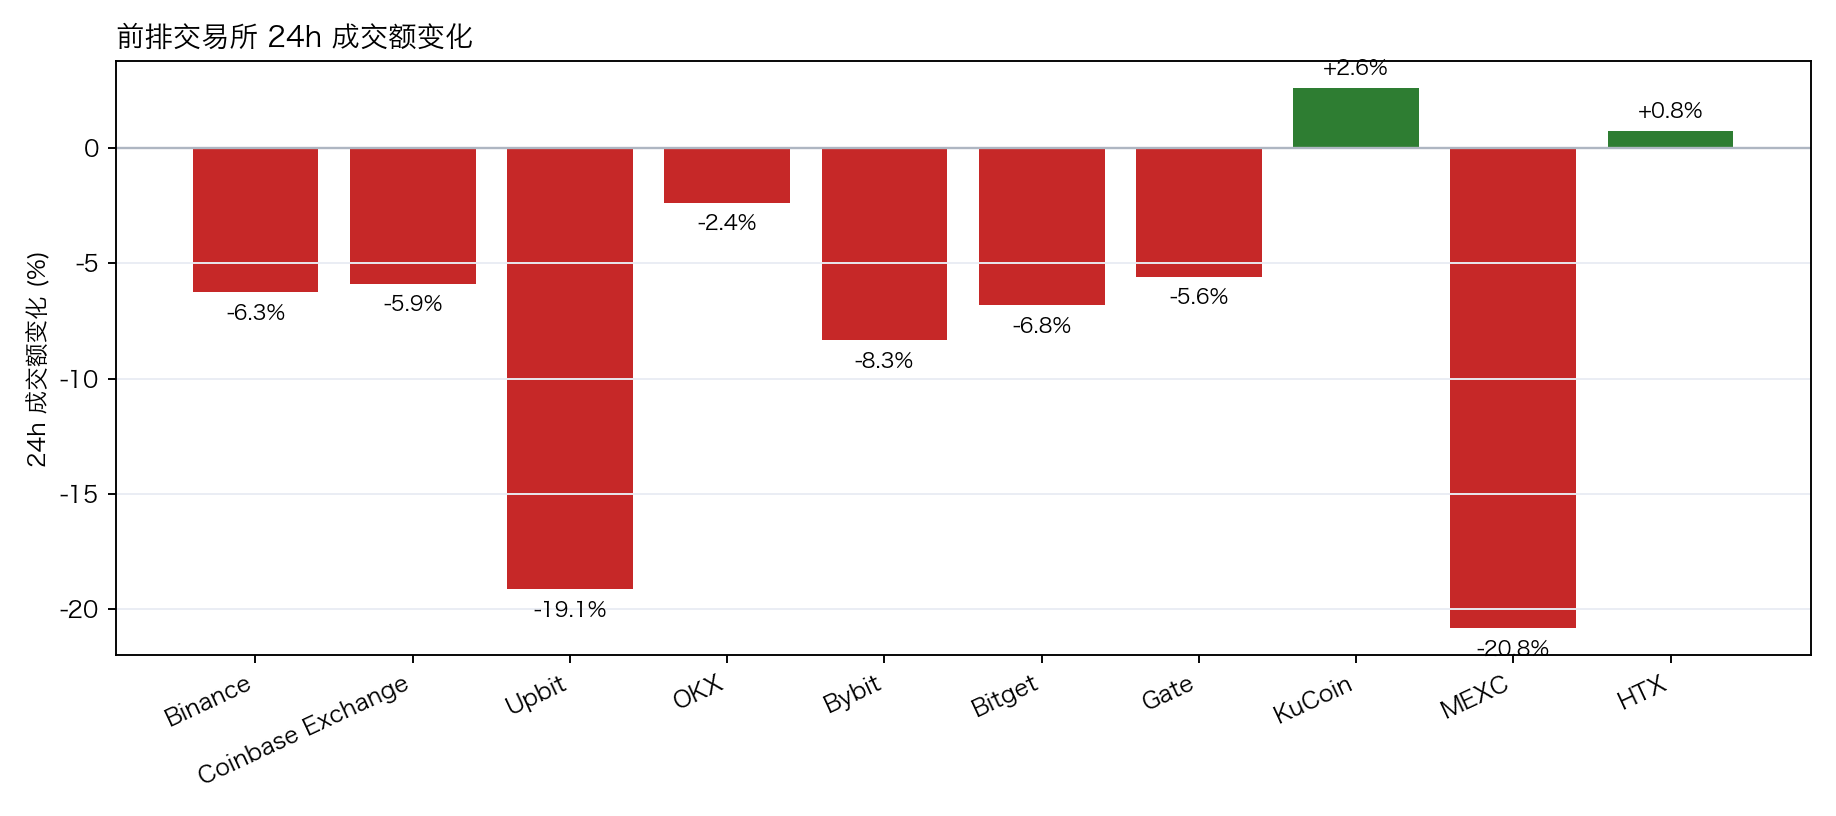
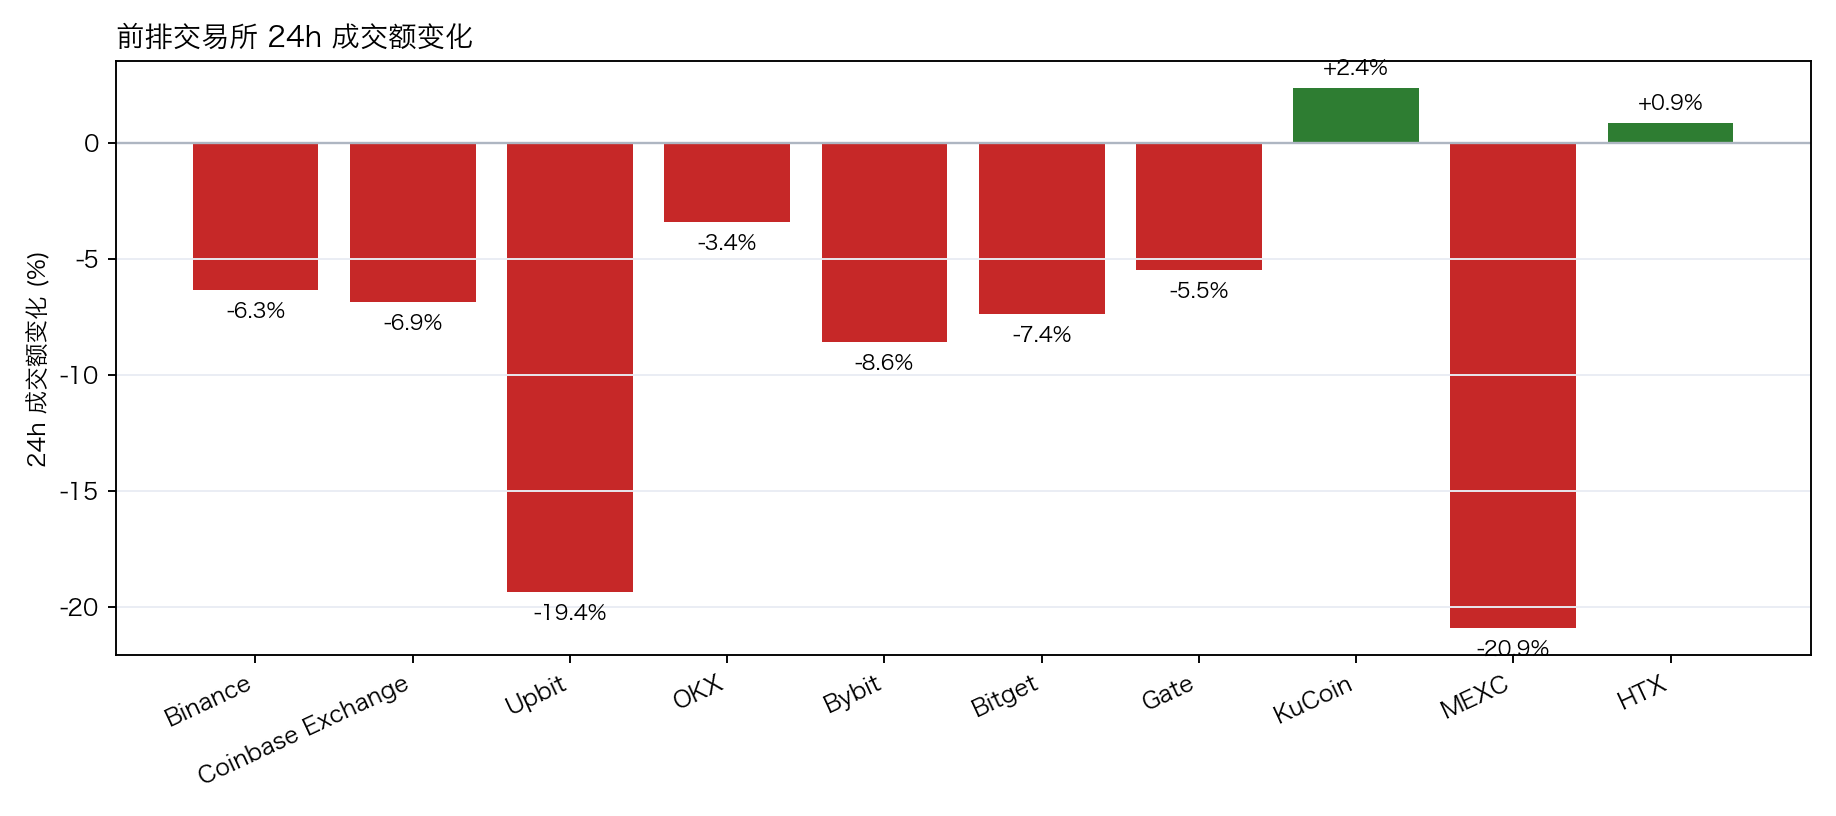
improve daily report narrative tone and chart commentary

diff --git a/reports/2026-03-01/secondary_daily_cn/daily_secondary_report.md b/reports/2026-03-01/secondary_daily_cn/daily_secondary_report.md
@@ -2,61 +2,64 @@
 
 ## 关键结论
 - 全市场市值 $2.30T（24h +1.41%），成交额 $102.41B（24h +5.23%）。
-- BTC 主导率 58.15%（+0.17pct），Top10 外占比 7.88% 。
-- Top10 资产上涨 7 / 下跌 3，平均涨跌幅 +3.33%，首尾分化 8.78pct。
-- 衍生品：BTC/ETH funding 分别为 -0.39bps / +0.00bps，DVOL 收盘 54.77 / 72.44。
+- BTC 主导率 58.15%（+0.17pct），Top10 外占比 7.96% 。
+- Top10 资产上涨 8 / 下跌 2，平均涨跌幅 +3.04%，首尾分化 8.56pct。
+- 衍生品：BTC/ETH funding 分别为 -0.38bps / +0.00bps，DVOL 收盘 54.81 / 72.43。
 
-## 市场状态判断
-- 状态标签：`Tactical Rebound`
-- 判断：价格与成交共振上行，但广度仍集中于核心资产，当前更像交易性修复而非趋势反转。
-- 广度解读：广度仍偏窄，增量风险偏好尚未形成持续外溢。
+## 今日盘面判断
+如果只用一句话概括今天的市场，关键词是 `Tactical Rebound`。价格与成交共振上行，但广度仍集中于核心资产，当前更像交易性修复而非趋势反转。广度仍偏窄，增量风险偏好尚未形成持续外溢。这意味着短线虽然有可交易的弹性，但要把它理解成新一轮趋势启动，证据还不够。
 
-## 驱动解读
-- 流动性与平台：多数平台成交走弱，流动性恢复仍依赖少数头部平台。
-- 杠杆结构：杠杆拥挤度整体可控。
-- 波动定价：期权端对尾部波动的定价仍偏谨慎。
-- 情绪约束：情绪仍在恐惧区，反弹更容易受到外部事件扰动。
+## 驱动在发生什么
+从流动性结构看，多数平台成交走弱，流动性恢复仍依赖少数头部平台；从杠杆维度看，杠杆拥挤度整体可控；在风险定价层面，期权端对尾部波动的定价仍偏谨慎；再结合情绪仍在恐惧区，反弹更容易受到外部事件扰动。整体来看，盘面更像是修复中的高波动环境，而不是低波动顺趋势环境。
 
 ## 市场脉冲
 ![全市场当日水平](charts/chart_market_snapshot_levels.png)
 截至 2026-03-01，全市场市值 $2.30T，24h 成交额 $102.41B，BTC 主导率 58.15%。
+价格与成交同步上行，属于健康修复结构；若次日成交不掉队，修复延续概率更高。在这种盘面下，成交能否继续跟上，是判断明天反弹延续还是回吐的第一道分水岭。
 数据来源：CMC `global-metrics/quotes/historical`
 
 ![全市场当日变化](charts/chart_market_daily_change.png)
 相对前日，市值 +1.41%、成交 +5.23%、BTC.D +0.17pct。
+把这组变化拆开看，比看单一涨跌更有用：价格、成交、主导率三者同向时，行情更有连续性；一旦出现背离，走势往往会变得更短促、更反复。
 数据来源：CMC `global-metrics/quotes/historical`
 
 ## 主导率与市场广度
 ![市场广度快照](charts/chart_market_breadth_snapshot.png)
-当前结构为 BTC 58.15% / Top2-10 33.97% / Top10 外 7.88%。长尾占比仍偏低，广度修复还未形成持续趋势。
+当前结构为 BTC 58.15% / Top2-10 33.89% / Top10 外 7.96%。长尾占比仍偏低，广度修复还未形成持续趋势。
+Top10 外占比处于低位，风险偏好仍主要停留在 BTC 与头部资产。换句话说，资金目前更愿意在高流动性的核心资产里做仓位调整，而不是大面积扩散到长尾资产。
 数据来源：CMC 全市场 + CoinGecko Top10 市值聚合
 
 ## 资产与交易所资金流
 ![Top10资产24h表现](charts/chart_top10_assets_24h.png)
-Top10 中领涨 SOL（+7.86%），尾部 FIGR_HELOC（-0.92%），均值 +3.33%。分化 8.78pct，结构性交易仍是主导。
+Top10 中领涨 SOL（+7.64%），尾部 FIGR_HELOC（-0.92%），均值 +3.04%。分化 8.56pct，结构性交易仍是主导。
+上涨家数明显占优，但首尾分化仍大，表明反弹并非无差别普涨。对交易而言，这通常意味着“选币”比“全市场方向”更重要，错配带来的收益差会明显放大。
 数据来源：CoinGecko `coins/markets`
 
 ![前排交易所24h变化](charts/chart_exchange_24h_change.png)
-前排样本上涨 2 家、下跌 8 家，均值 -7.18%。KuCoin 最强（+2.60%），MEXC 最弱（-20.83%）。
+前排样本上涨 2 家、下跌 8 家，均值 -7.51%。KuCoin 最强（+2.36%），MEXC 最弱（-20.92%）。
+最强与最弱平台的 24h 变化差达到 23.29pct，说明流动性仍在选择性回流，头部平台的价格发现能力更强。当平台间流量分化明显时，报价连续性和滑点表现会同步分化，执行层面要更关注成交质量。
 数据来源：CMC `exchange/quotes/latest`
 
 ![交易所现货衍生品结构](charts/chart_exchange_spot_deriv_structure.png)
-样本内衍生品成交占比 84.55%。若该占比继续走高且 funding 不同步回落，短线波动脉冲通常会增强。
+样本内衍生品成交占比 84.56%。若该占比继续走高且 funding 不同步回落，短线波动脉冲通常会增强。
+衍生品仍是主导成交形态，价格连续性更多由杠杆侧情绪决定。这也是为什么同样的消息面在当前阶段更容易被放大成大振幅走势。
 数据来源：CMC `exchange/quotes/latest`（spotVolumeUsd / derivativeVolumeUsd）
 
 ## 衍生品与情绪
 ![衍生品快照](charts/chart_derivatives_snapshot.png)
-Funding 仍在中性附近，BTC/ETH 分别 -0.39bps / +0.00bps；Perp OI 为 $1.06B / $343.22M；DVOL 位于 Neutral（中性波动定价） / Panic（高波动溢价）。
+Funding 仍在中性附近，BTC/ETH 分别 -0.38bps / +0.00bps；Perp OI 为 $1.06B / $343.21M；DVOL 位于 Neutral（中性波动定价） / Panic（高波动溢价）。
+资金费率接近中性，说明方向拥挤度有限；但 DVOL 仍偏高，市场对突发波动仍保留保险溢价。因此更合适的做法不是激进追单边，而是围绕波动管理仓位和节奏。
 数据来源：Deribit `public/ticker`、`public/get_volatility_index_data`
 
 ![情绪与波动当日快照](charts/chart_sentiment_snapshot.png)
-F&G 当日 14（较前日 +3）；配合 BTC/ETH DVOL 54.77/72.44，当前更像情绪修复中的高波动区。
+F&G 当日 14（较前日 +3）；配合 BTC/ETH DVOL 54.81/72.43，当前更像情绪修复中的高波动区。
+恐惧区内出现边际改善，说明市场开始试探修复，但尚不足以支持激进风险暴露。只有当情绪、广度和成交三者同时改善，市场才更可能从“反弹交易”切换到“趋势交易”。
 数据来源：Alternative.me `/fng/` + Deribit DVOL
 
-## 未来24小时观察点
-- 若 Top10 外占比持续抬升且 BTC.D 回落，说明风险偏好开始从核心资产外溢。
-- 若交易所衍生品占比继续升高但 funding 仍中性，行情更可能表现为高波动震荡。
-- 若 F&G 反弹而 DVOL 不降，需警惕情绪修复与波动定价背离。
+## 明日要盯的三个触发器
+1. 若 Top10 外占比继续抬升且 BTC.D 回落，说明风险偏好开始从核心资产向外扩散。
+2. 若衍生品占比继续上升而 funding 仍中性，盘面大概率维持高波动震荡而非顺滑上行。
+3. 若 F&G 反弹但 DVOL 不降，代表情绪与风险定价背离，追涨胜率会明显下降。
 
 ## 交易与风控含义
 - 仓位管理优先级高于方向押注，建议保持核心仓位稳定、战术仓位滚动。
